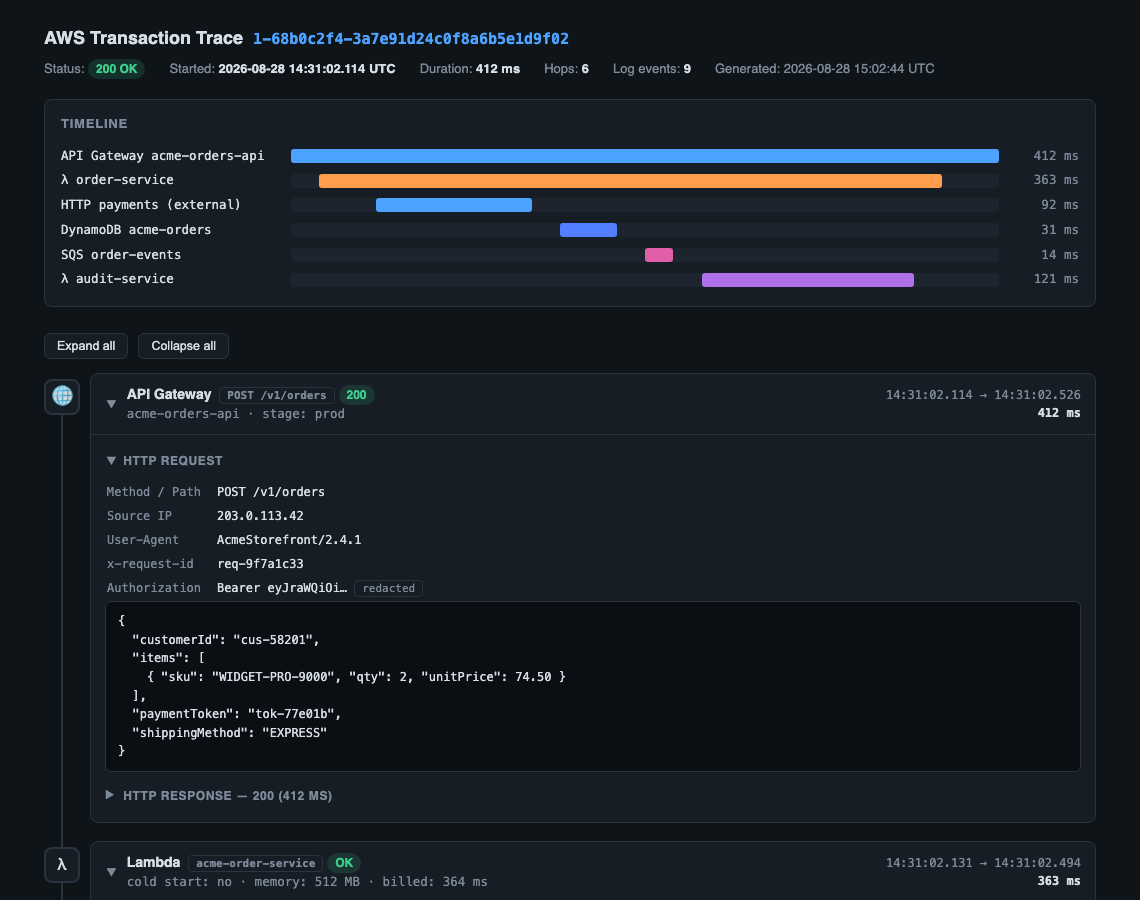
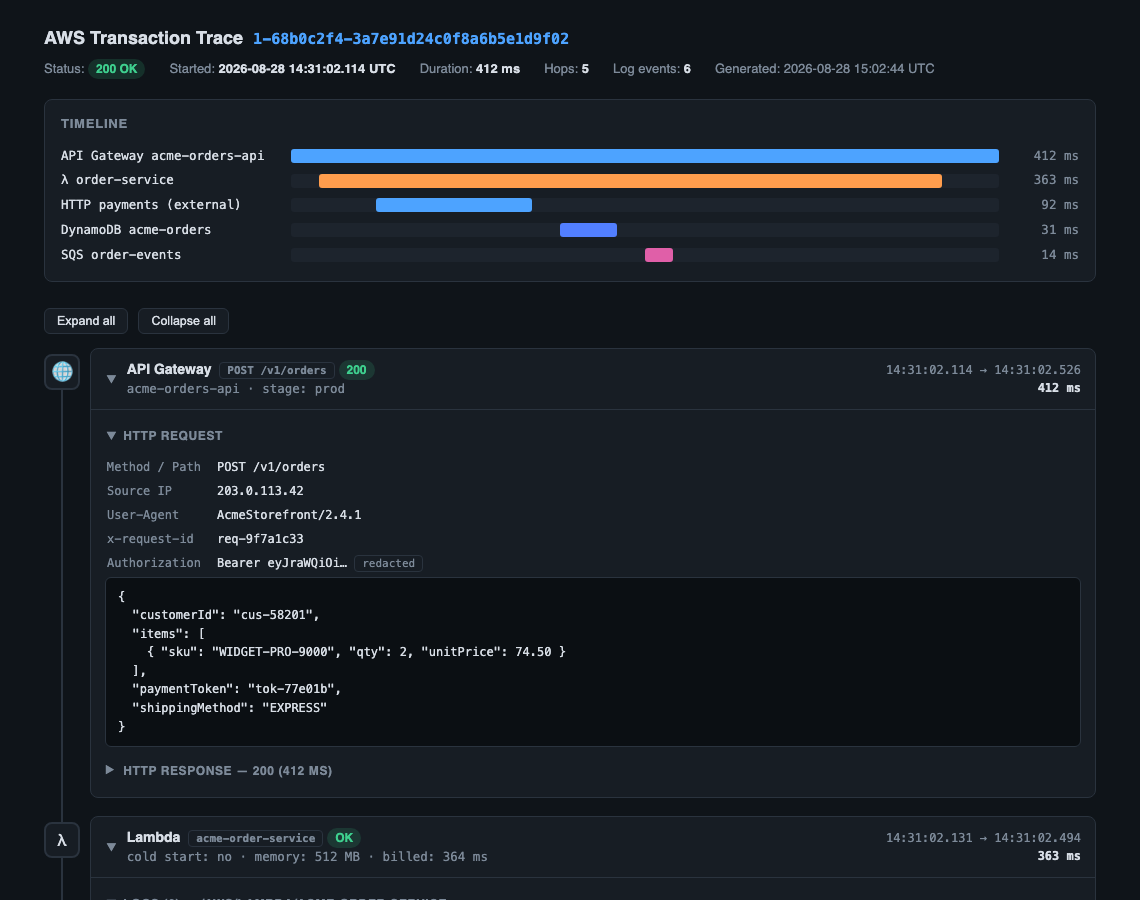
added customization doc

diff --git a/examples/example-trace.html b/examples/example-trace.html
@@ -19,7 +19,6 @@
     --http: #4da3ff;
     --lambda: #ff9d4d;
     --dynamo: #527fff;
-    --audit: #b06ee8;
     --sqs: #e05fa8;
     --mono: "SF Mono", ui-monospace, Menlo, Consolas, monospace;
   }
@@ -116,8 +115,8 @@
     <span>Status: <span class="badge ok">200 OK</span></span>
     <span>Started: <b>2026-08-28 14:31:02.114 UTC</b></span>
     <span>Duration: <b>412 ms</b></span>
-    <span>Hops: <b>6</b></span>
-    <span>Log events: <b>9</b></span>
+    <span>Hops: <b>5</b></span>
+    <span>Log events: <b>6</b></span>
     <span>Generated: 2026-08-28 15:02:44 UTC</span>
   </div>
 </header>
@@ -129,7 +128,6 @@
   <div class="g-row"><div class="g-name">HTTP payments (external)</div><div class="g-track"><div class="g-bar" style="left:12%;width:22%;background:var(--http)"></div></div><div class="g-ms">92 ms</div></div>
   <div class="g-row"><div class="g-name">DynamoDB acme-orders</div><div class="g-track"><div class="g-bar" style="left:38%;width:8%;background:var(--dynamo)"></div></div><div class="g-ms">31 ms</div></div>
   <div class="g-row"><div class="g-name">SQS order-events</div><div class="g-track"><div class="g-bar" style="left:50%;width:4%;background:var(--sqs)"></div></div><div class="g-ms">14 ms</div></div>
-  <div class="g-row"><div class="g-name">λ audit-service</div><div class="g-track"><div class="g-bar" style="left:58%;width:30%;background:var(--audit)"></div></div><div class="g-ms">121 ms</div></div>
 </div>
 
 <div class="controls">
@@ -207,7 +205,7 @@
             <div class="logline"><span class="lg-ts">02.163</span><span class="lg-lvl INFO">INFO</span><span>Authorizing payment tok-77e01b amount=149.00 USD</span></div>
             <div class="logline"><span class="lg-ts">02.257</span><span class="lg-lvl INFO">INFO</span><span>Payment authorized authId=auth-3391f2</span></div>
             <div class="logline"><span class="lg-ts">02.291</span><span class="lg-lvl INFO">INFO</span><span>Persisted order ord-20260828-0042 to acme-orders</span></div>
-            <div class="logline"><span class="lg-ts">02.310</span><span class="lg-lvl INFO">INFO</span><span>Published audit event ORDER_CREATED to order-events</span></div>
+            <div class="logline"><span class="lg-ts">02.310</span><span class="lg-lvl INFO">INFO</span><span>Published ORDER_CREATED event to order-events</span></div>
           </div>
         </div>
       </div>
@@ -287,42 +285,6 @@ Content-Type: application/json
         <div class="section">
           <div class="sec-head" onclick="this.parentElement.classList.toggle('open')"><span class="chev">▶</span> Message body</div>
           <div class="sec-body"><pre>{ "event": "ORDER_CREATED", "orderId": "ord-20260828-0042", "actor": "cus-58201" }</pre></div>
-        </div>
-      </div>
-    </div>
-  </div>
-
-  <!-- HOP 6: audit-service with a WARN -->
-  <div class="hop">
-    <div class="hop-dot" title="Lambda">λ</div>
-    <div class="hop-card">
-      <div class="hop-head" onclick="this.parentElement.classList.toggle('open')">
-        <span class="chev">▶</span>
-        <div>
-          <div class="hop-title">Lambda &nbsp;<span class="pill">acme-audit-service</span> <span class="badge warn">WARN</span></div>
-          <div class="hop-sub">triggered by SQS order-events · async</div>
-        </div>
-        <div class="hop-time">14:31:02.352 → 14:31:02.473<br><span class="dur">121 ms</span></div>
-      </div>
-      <div class="hop-body">
-        <div class="section open">
-          <div class="sec-head" onclick="this.parentElement.classList.toggle('open')"><span class="chev">▶</span> Logs (3) — /aws/lambda/acme-audit-service</div>
-          <div class="sec-body">
-            <div class="logline"><span class="lg-ts">02.355</span><span class="lg-lvl INFO">INFO</span><span>Processing audit event ORDER_CREATED orderId=ord-20260828-0042</span></div>
-            <div class="logline"><span class="lg-ts">02.401</span><span class="lg-lvl WARN">WARN</span><span>Audit enrichment lookup slow (46 ms) for actor cus-58201</span></div>
-            <div class="logline"><span class="lg-ts">02.470</span><span class="lg-lvl INFO">INFO</span><span>Audit record written to acme-audit-log</span></div>
-          </div>
-        </div>
-        <div class="section">
-          <div class="sec-head" onclick="this.parentElement.classList.toggle('open')"><span class="chev">▶</span> Audit record (DynamoDB · acme-audit-log)</div>
-          <div class="sec-body"><pre>{
-  "pk": "AUDIT#2026-08-28",
-  "sk": "14:31:02.468#ord-20260828-0042",
-  "event": "ORDER_CREATED",
-  "actor": "cus-58201",
-  "resource": "ord-20260828-0042",
-  "traceId": "1-68b0c2f4-3a7e91d24c0f8a6b5e1d9f02"
-}</pre></div>
         </div>
       </div>
     </div>

diff --git a/templates/trace-template.html b/templates/trace-template.html
@@ -25,7 +25,6 @@
     --http: #4da3ff;
     --lambda: #ff9d4d;
     --dynamo: #527fff;
-    --audit: #b06ee8;
     --sqs: #e05fa8;
     --mono: "SF Mono", ui-monospace, Menlo, Consolas, monospace;
   }

diff --git a/README.md b/README.md
@@ -17,7 +17,7 @@ Header, summary Gantt timeline, and chronological hop cards:
 ![Trace overview — Gantt timeline and first hop](docs/example-collapsed.png)
 
 Every hop expands: HTTP requests/responses (headers + body), per-hop CloudWatch logs with
-level coloring, DynamoDB items, message payloads, and audit records:
+level coloring, DynamoDB items, and message payloads:
 
 ![Fully expanded trace with logs and DynamoDB detail](docs/example-expanded.png)
 
@@ -64,6 +64,33 @@ npx skills add pinhigh-ai/aws-trace -a claude-code
 Manual alternative: copy (or clone and symlink) this folder into your harness's skills
 directory — e.g. `~/.claude/skills/aws-trace` (Claude Code) or `~/.warp/skills/aws-trace`
 (Warp). Each skill is just a folder containing `SKILL.md`.
+
+## Customization
+
+[rules/hop-types.md](rules/hop-types.md) is the skill's extension point — it tells the agent
+what each hop kind shows and how to handle components it doesn't recognize. Because an
+installed skill is just these files, you can tailor it to your organization's tracing by
+editing that file (fork the repo, or edit your installed copy directly):
+
+- **Add hop kinds for your own components.** Append a row to the *Known kinds* table with the
+  icon, palette color, title pattern, and sections you want — e.g. an internal message broker,
+  a payments gateway, or a legacy service that appears in your traces. The agent composes new
+  hop cards from that row exactly as it does for the built-in kinds.
+- **Add custom log queries.** Add a subsection under *Section content rules* describing the
+  extra CloudWatch queries the agent should run for your stack — for example, log groups that
+  aren't derivable from X-Ray segments (queue-triggered workers, on-prem forwarders) and the
+  `filter-log-events` patterns or correlation-ID fields (`correlationId`, `traceparent`, a
+  custom `x-request-id`) that tie those events back to a hop.
+- **Reconstruct hops that never reach X-Ray.** If part of your transaction flows through
+  infrastructure X-Ray can't see (self-hosted brokers, third-party webhooks), describe the log
+  markers that identify a send and a receive, and instruct the agent to synthesize a hop from
+  them — following the same card pattern and the *Unknown components* rule.
+- **Tune the defaults.** Naming conventions for your log groups, a different log-search
+  window, or organization-specific redaction keys can all be stated as additional rules.
+
+Keep [templates/trace-template.html](templates/trace-template.html) untouched so customized
+traces still render with the standard look; your rules only change *what* is gathered and
+which cards appear, not the styling.
 
 ## Requirements
 

diff --git a/SKILL.md b/SKILL.md
@@ -7,7 +7,7 @@ description: Render a full AWS transaction trace as an interactive HTML timeline
 
 Given an X-Ray trace ID, produce **one self-contained interactive HTML document** showing every
 hop of the transaction chronologically top-to-bottom — X-Ray segments, CloudWatch logs per hop,
-HTTP request/response detail, DynamoDB operations, messaging hops, and audit records —
+HTTP request/response detail, DynamoDB operations, and messaging hops —
 then write it to `./.traces/` and open it in the default browser.
 
 ## Inputs
@@ -59,7 +59,7 @@ Copy the CSS, markup patterns, and JS from [templates/trace-template.html](templ
 
 - the dark theme via CSS custom properties (`--bg #0f1419`, panel/border/text/muted tones, and
   per-service accent colors: HTTP blue, Lambda orange, DynamoDB indigo, SQS/SNS pink,
-  audit purple, ok green `#3ecf8e`, warn amber `#f0b429`, error red `#f2555a`);
+  ok green `#3ecf8e`, warn amber `#f0b429`, error red `#f2555a`);
 - the Gantt row, hop card, section, key/value table, `<pre>`, and log-line markup;
 - badge semantics: green `OK`/`200`/`ACK`, amber `WARN`/4xx/`THROTTLED`, red `ERROR`/5xx —
   HTTP hops use the status code as the badge text; error hops also get the `err-card` border;

diff --git a/rules/hop-types.md b/rules/hop-types.md
@@ -14,7 +14,6 @@ subtitle, start → end, duration) + expandable sections.
 | `dynamodb` | 🗄 | `var(--dynamo)` | `DynamoDB` + operation/table pill | Item / key detail (from logs if X-Ray lacks payloads) · consumed capacity in subtitle |
 | `sqs` | 📨 | `var(--sqs)` | `SQS` + operation/queue pill | Message body (from logs when available) |
 | `sns` | 📣 | `var(--sqs)` | `SNS` + topic pill | Message detail |
-| audit record | 📜 | `var(--audit)` | `Audit` + event pill | Audit record JSON (`<pre>`) — may also appear as a section inside the writing service's hop |
 
 ## Section content rules
 
@@ -25,7 +24,7 @@ subtitle, start → end, duration) + expandable sections.
 - **Logs:** template log-line grid — `SS.mmm` timestamp, colored level (INFO blue, WARN amber,
   ERROR red, DEBUG muted), message. Structured JSON log lines: show `msg` first, then the
   remaining fields compactly. Open this section by default when the hop's story is in its logs.
-- **JSON payloads** (envelopes, DynamoDB items, audit records): pretty-printed 2-space `<pre>`.
+- **JSON payloads** (envelopes, DynamoDB items): pretty-printed 2-space `<pre>`.
 
 ## Badge / status mapping
 
